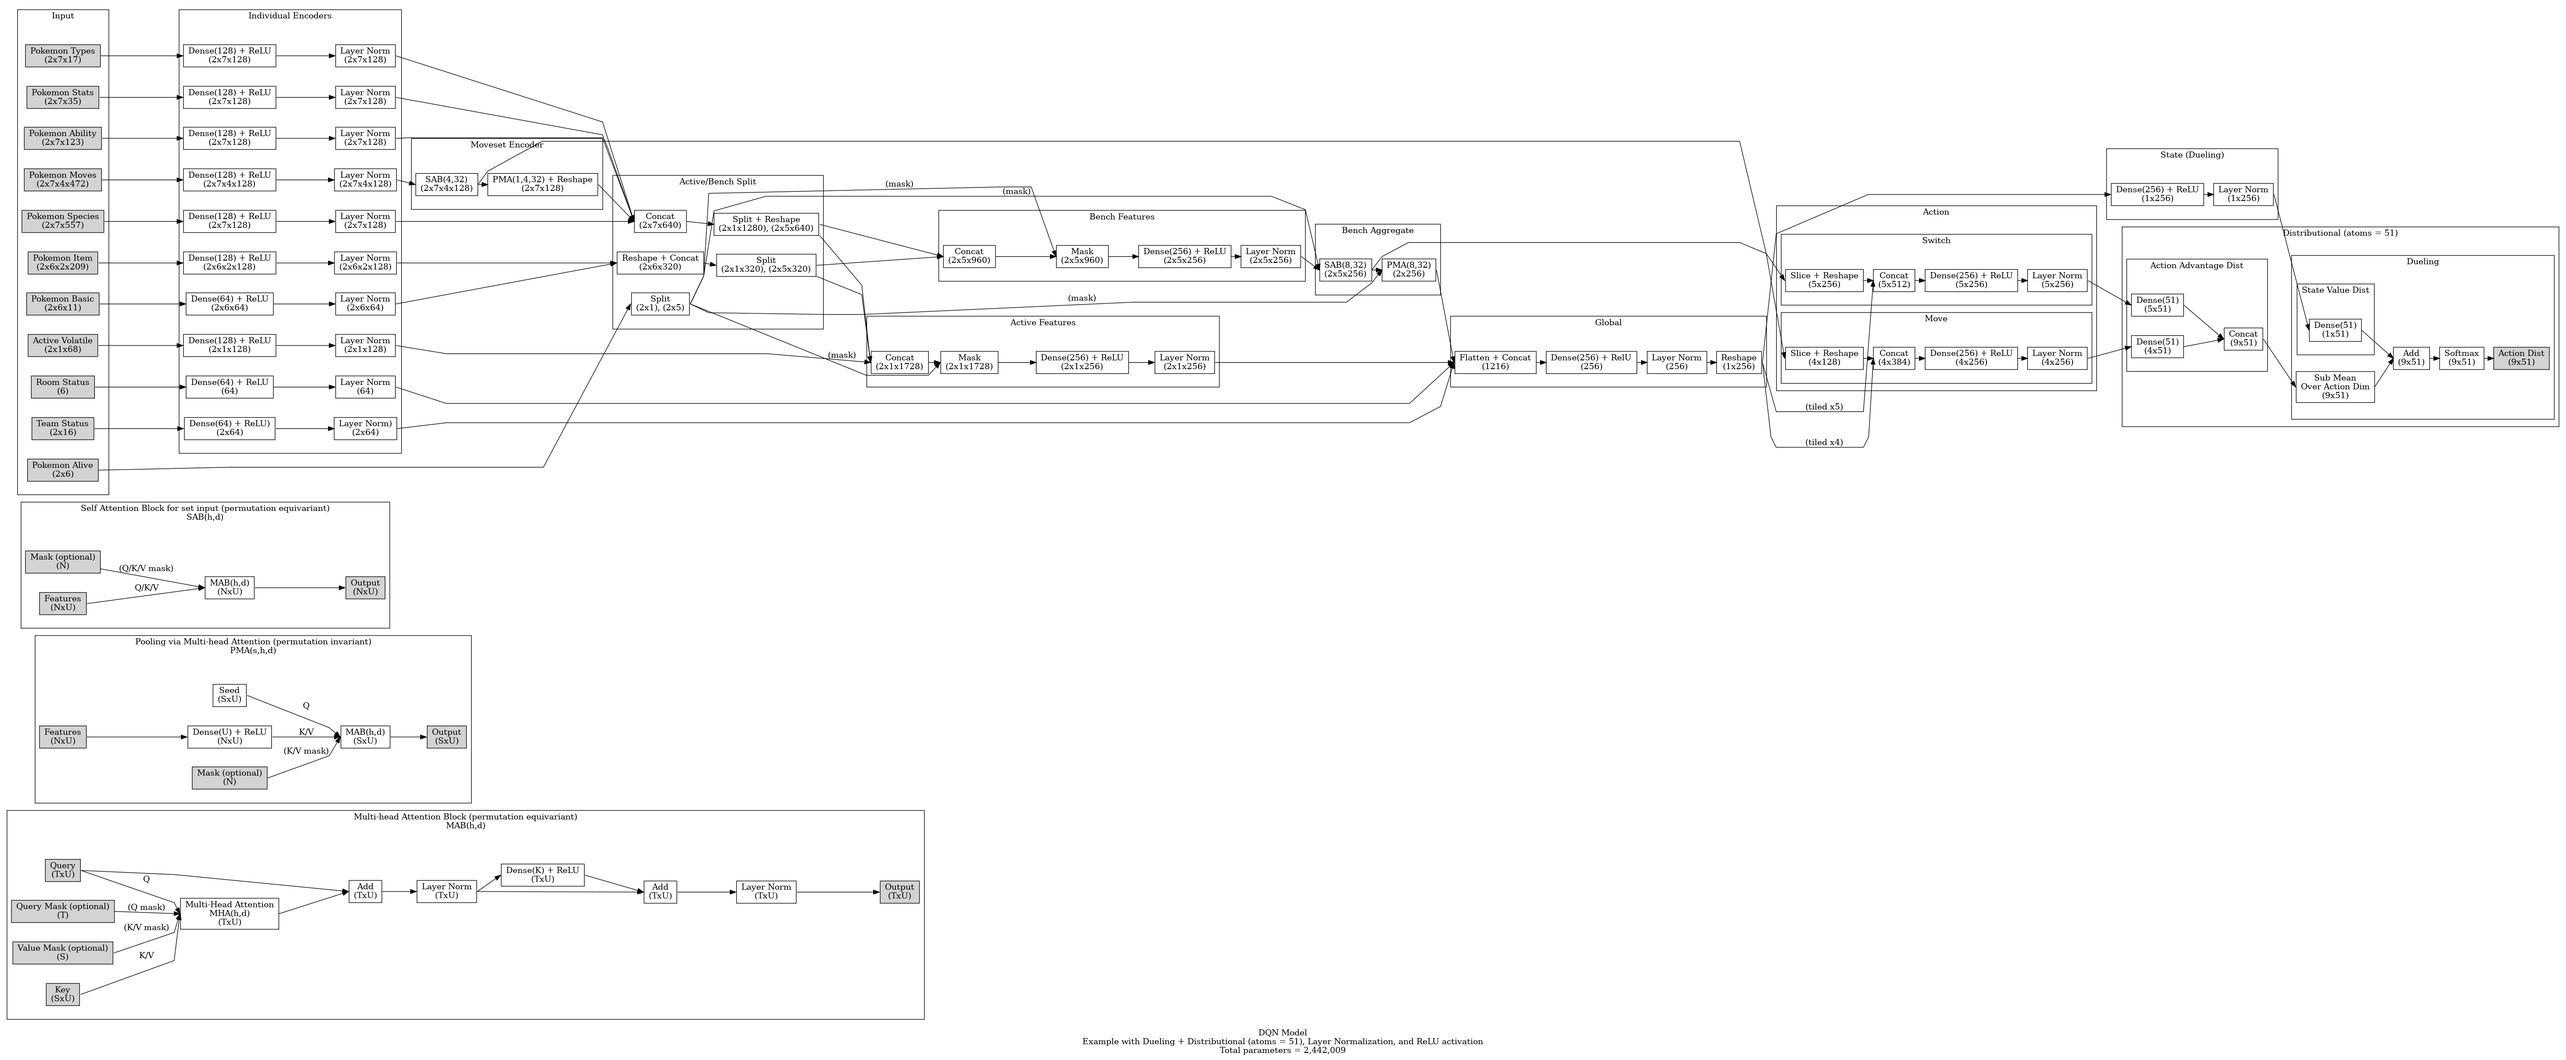
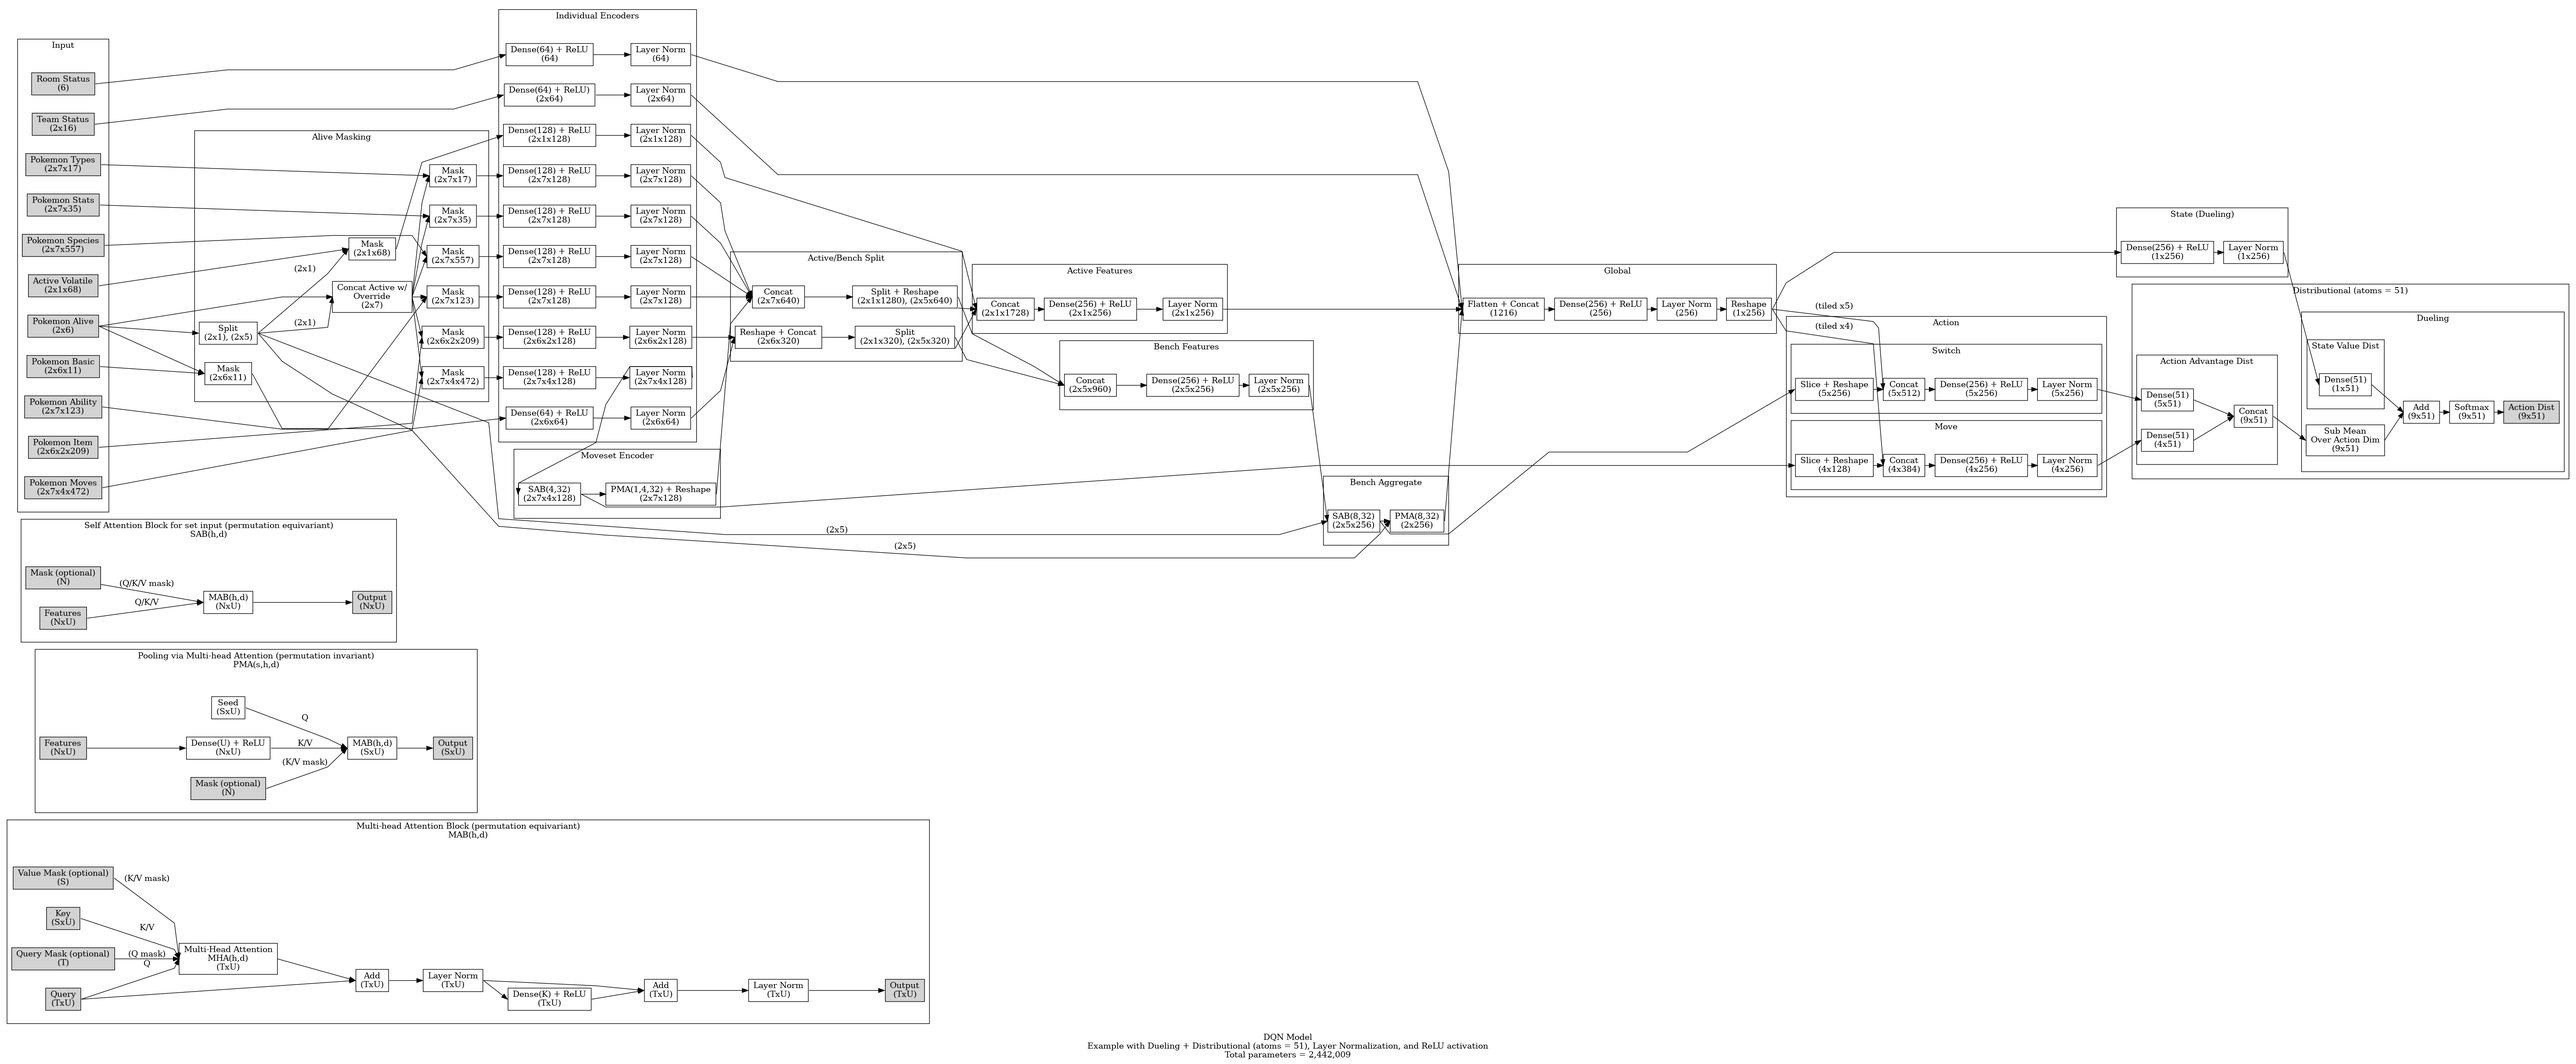
Revise mask/expand_dims usage

diff --git a/src/py/models/dqn_model.py b/src/py/models/dqn_model.py
@@ -180,14 +180,51 @@ class DQNModel(tf.keras.Model):
             )
         )
 
+        # Note: tf.concat() seems to be broken for pylint.
+        # pylint: disable=unexpected-keyword-arg, no-value-for-parameter
+
+        # (B,2,6)
+        alive_pokemon = tf.reshape(
+            features.pop("alive"), (-1, *STATE_SHAPES["alive"])
+        )
+        # (B,2,6) -> (B,2,1), (B,2,5)
+        alive_active, alive_bench = tf.split(
+            alive_pokemon, [NUM_ACTIVE, NUM_POKEMON - NUM_ACTIVE], axis=-1
+        )
+        # (B,2,7)
+        alive_pokemon_with_override = tf.concat(
+            [alive_active, alive_pokemon], axis=-1
+        )
+
         if return_activations:
             activations = {}
 
         # Initial input features.
         for label in STATE_NAMES:
+            if label == "alive":
+                continue
             features[label] = tf.reshape(
                 features[label], (-1, *STATE_SHAPES[label])
             )
+            # Mask out features of fainted pokemon, forcing them to zero which
+            # is the same encoding used for nonexistent/empty pokemon slots.
+            if label == "volatile":
+                # (B,2,1,X)
+                features[label] *= alive_active[..., tf.newaxis]
+            elif label == "basic":
+                # (B,2,6,X)
+                features[label] *= alive_pokemon[..., tf.newaxis]
+            elif label == "item":
+                # (B,2,6,2,X)
+                features[label] *= alive_pokemon[..., tf.newaxis, tf.newaxis]
+            elif label in {"species", "types", "stats", "ability"}:
+                # (B,2,7,X)
+                features[label] *= alive_pokemon_with_override[..., tf.newaxis]
+            elif label == "moves":
+                # (B,2,7,4,X)
+                features[label] *= alive_pokemon_with_override[
+                    ..., tf.newaxis, tf.newaxis
+                ]
             for layer in self.input_fcs.get(label, []):
                 features[label] = layer(features[label], training=training)
                 if return_activations:
@@ -215,9 +252,6 @@ class DQNModel(tf.keras.Model):
             raise ValueError(
                 f"Invalid config.pooling type '{self.config.pooling}'"
             )
-
-        # Note: tf.concat() seems to be broken for pylint.
-        # pylint: disable=unexpected-keyword-arg, no-value-for-parameter
 
         # Concat pre-batched item + last_item tensors.
         # (B,2,6,2,X) -> (B,2,6,2*X)
@@ -270,33 +304,23 @@ class DQNModel(tf.keras.Model):
             axis=-2,
         )
 
-        # Broadcast mask.
-        # (B,2,6) -> (B,2,6,1)
-        features["alive"] = tf.expand_dims(features["alive"], axis=-1)
-        # (B,2,6,1) -> (B,2,1,1), (B,2,5,1)
-        alive_active, alive_bench = tf.split(
-            features["alive"], [NUM_ACTIVE, NUM_POKEMON - NUM_ACTIVE], axis=-2
-        )
-
         # (B,2,1,X)
         active = tf.concat([features["volatile"], active1, active2], axis=-1)
-        active *= alive_active
         for layer in self.active_fcs:
             active = layer(active, training=training)
 
         # (B,2,5,X)
         bench = tf.concat([bench1, bench2], axis=-1)
-        bench *= alive_bench
         for layer in self.bench_fcs:
             bench = layer(bench, training=training)
             if return_activations:
                 activations[layer.name] = bench
 
         if self.config.attention:
+            # Note: Masking is required for attention layers to prevent them
+            # from considering fainted pokemon features.
             bench = self.bench_encoder(
-                bench,
-                training=training,
-                mask=tf.squeeze(alive_bench, axis=-1),
+                bench, training=training, mask=alive_bench
             )
             if return_activations:
                 activations[self.bench_encoder.name] = bench
@@ -304,7 +328,7 @@ class DQNModel(tf.keras.Model):
         # (B,2,X)
         if self.config.pooling == "attention":
             pooled_bench = self.bench_pooling(
-                bench, training=training, mask=tf.squeeze(alive_bench, axis=-1)
+                bench, training=training, mask=alive_bench
             )
             # Collapse PMA seed dimension.
             pooled_bench = tf.squeeze(pooled_bench, axis=-2)
@@ -326,9 +350,7 @@ class DQNModel(tf.keras.Model):
                 shape=tf.concat(
                     [
                         batch_shape,
-                        tf.expand_dims(
-                            tf.reduce_prod(tensor.shape[1:]), axis=0
-                        ),
+                        [tf.reduce_prod(tensor.shape[1:])],
                     ],
                     axis=-1,
                 ),
@@ -342,7 +364,7 @@ class DQNModel(tf.keras.Model):
                 activations[layer.name] = global_features
 
         # Broadcast: (B,1,X)
-        global_features = tf.expand_dims(global_features, axis=-2)
+        global_features = global_features[..., tf.newaxis, :]
 
         # (B,2,6,4,X) -> (B,4,X)
         our_active_moves = moveset[:, 0, 0, :, :]
@@ -444,13 +466,12 @@ class DQNModel(tf.keras.Model):
         q_values = self(state)
         if self.config.dist is not None:
             # Get expected Q-value (mean) of each Q distribution output.
-            support = tf.expand_dims(
-                tf.linspace(
-                    float(MIN_REWARD), float(MAX_REWARD), self.config.dist
-                ),
-                axis=0,
+            support = tf.linspace(
+                tf.constant(MIN_REWARD, dtype=q_values.dtype),
+                tf.constant(MAX_REWARD, dtype=q_values.dtype),
+                self.config.dist,
             )
-            q_values = tf.reduce_mean(q_values * support, -1)
+            q_values = tf.reduce_mean(q_values * support[tf.newaxis, ...], -1)
         # Create action id rankings based on the Q-values.
         # Note: Let the battle simulator filter out illegal actions so the code
         # is simpler here.

diff --git a/src/py/agents/dqn_agent.py b/src/py/agents/dqn_agent.py
@@ -342,7 +342,7 @@ class DQNAgent(Agent):
         action_mask = tf.one_hot(action, len(ACTION_NAMES))  # (B, A)
         if self.config.model.dist is not None:
             # Broadcast over selected action's Q distribution.
-            action_mask = tf.expand_dims(action_mask, axis=-1)  # (B, A, 1)
+            action_mask = action_mask[..., tf.newaxis]  # (B, A, 1)
         action_mask = tf.stop_gradient(action_mask)
 
         with tf.GradientTape(watch_accessed_variables=False) as tape:
@@ -369,14 +369,10 @@ class DQNAgent(Agent):
         # Return data for metrics logging.
         if self.config.model.dist is not None:
             # Record mean of Q/tgt distributions for each sample in the batch.
-            support = tf.expand_dims(
-                tf.linspace(
-                    float(MIN_REWARD),
-                    float(MAX_REWARD),
-                    self.config.model.dist,
-                ),
-                axis=0,
+            support = tf.linspace(
+                float(MIN_REWARD), float(MAX_REWARD), self.config.model.dist
             )
+            support = support[tf.newaxis, ...]  # Broadcast: (1, D)
             q_pred = tf.reduce_sum(q_pred * support, axis=-1)
             td_target = tf.reduce_sum(td_target * support, axis=-1)
         return loss, activations, gradients, q_pred, td_target
@@ -403,34 +399,41 @@ class DQNAgent(Agent):
             # Infinite n-step reduces to episodic Monte Carlo returns.
             return reward
 
-        if self.config.model.dist is not None:
-            support = tf.expand_dims(
-                tf.linspace(
-                    float(MIN_REWARD), float(MAX_REWARD), self.config.model.dist
-                ),
-                axis=0,
-            )
-
         # Double DQN target: r + gamma^n * Qt(s', argmax_a(Q(s', a))).
-        tgt_next_q = self.target(next_state)
+
+        tgt_next_q = self.target(next_state)  # (B, A) or (B, A, D)
         next_q = self.model(next_state)  # (B, A) or (B, A, D)
+        tf.debugging.assert_same_float_dtype([tgt_next_q, next_q])
+
+        if self.config.model.dist is not None:
+            support = tf.linspace(
+                tf.constant(MIN_REWARD, dtype=next_q.dtype),
+                tf.constant(MAX_REWARD, dtype=next_q.dtype),
+                self.config.model.dist,
+            )
+            support = support[tf.newaxis, ...]  # Broadcast: (1, D)
 
         if self.config.model.dist is not None:
             # Distributional RL: Take expectation (mean) of the Q distribution.
             # (B, A, D) -> (B, A)
             next_q = tf.reduce_sum(next_q * support, axis=-1)
 
-        # Mask out illegal actions from argmax.
-        next_q += (1 - choices) * -1e9
-        # Get best action for next state: argmax_a(Q(s', a))
+        # Get best action for next state: argmax_{legal(a)}(Q(s', a))
+        next_q += (1 - choices) * (
+            -1e9 if next_q.dtype != tf.float16 else tf.float16.min
+        )
         next_action = tf.argmax(next_q, axis=-1, output_type=tf.int32)
+
         # Get target Q value of best action: Qt(s', argmax_a(...))
-        next_action_mask = tf.one_hot(next_action, depth=len(ACTION_NAMES))
+        next_action_mask = tf.one_hot(
+            next_action, depth=len(ACTION_NAMES), dtype=tgt_next_q.dtype
+        )
         if self.config.model.dist is not None:
             # Broadcast along distribution dimension.
-            next_action_mask = tf.expand_dims(next_action_mask, axis=-1)
+            next_action_mask = next_action_mask[..., tf.newaxis]  # (B, A, 1)
         tgt_next_q = tf.reduce_sum(
-            tgt_next_q * next_action_mask, axis=1
+            tgt_next_q * next_action_mask,
+            axis=-1 if self.config.model.dist is None else -2,  # Dim A.
         )  # (B,) or (B, D)
 
         # Apply reward and discount factor: r + gamma^n * Qt(...)
